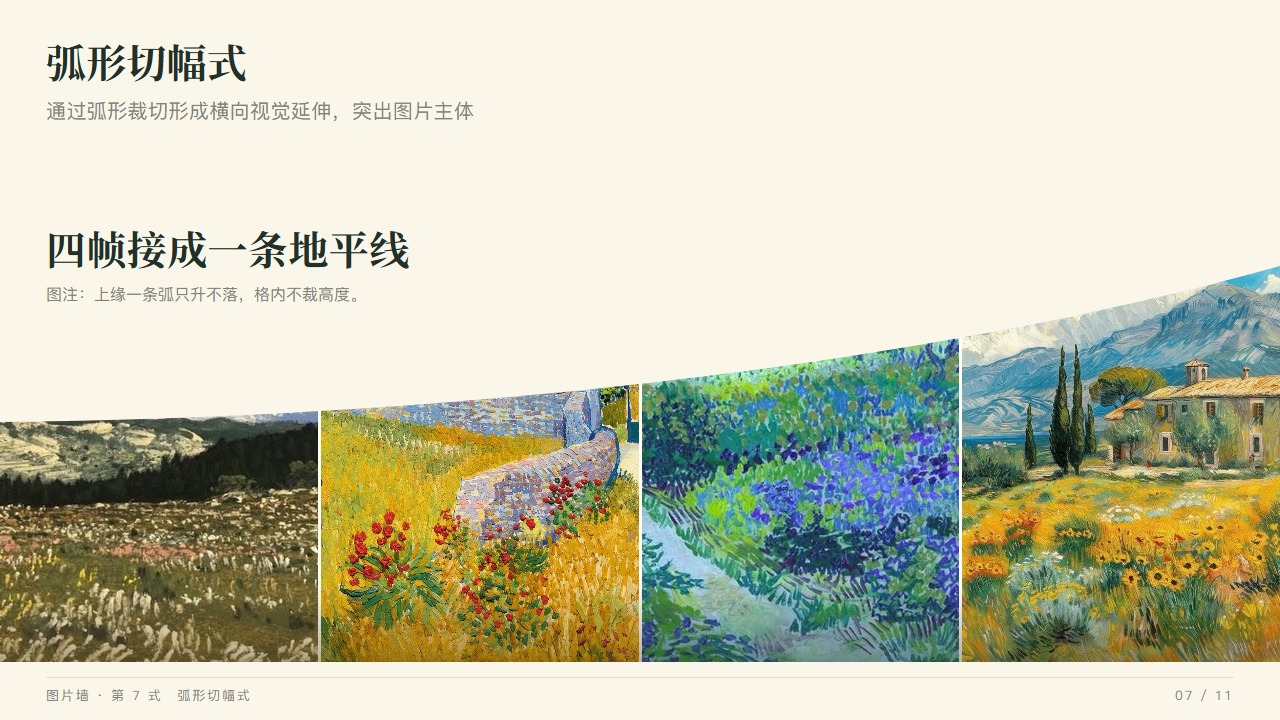
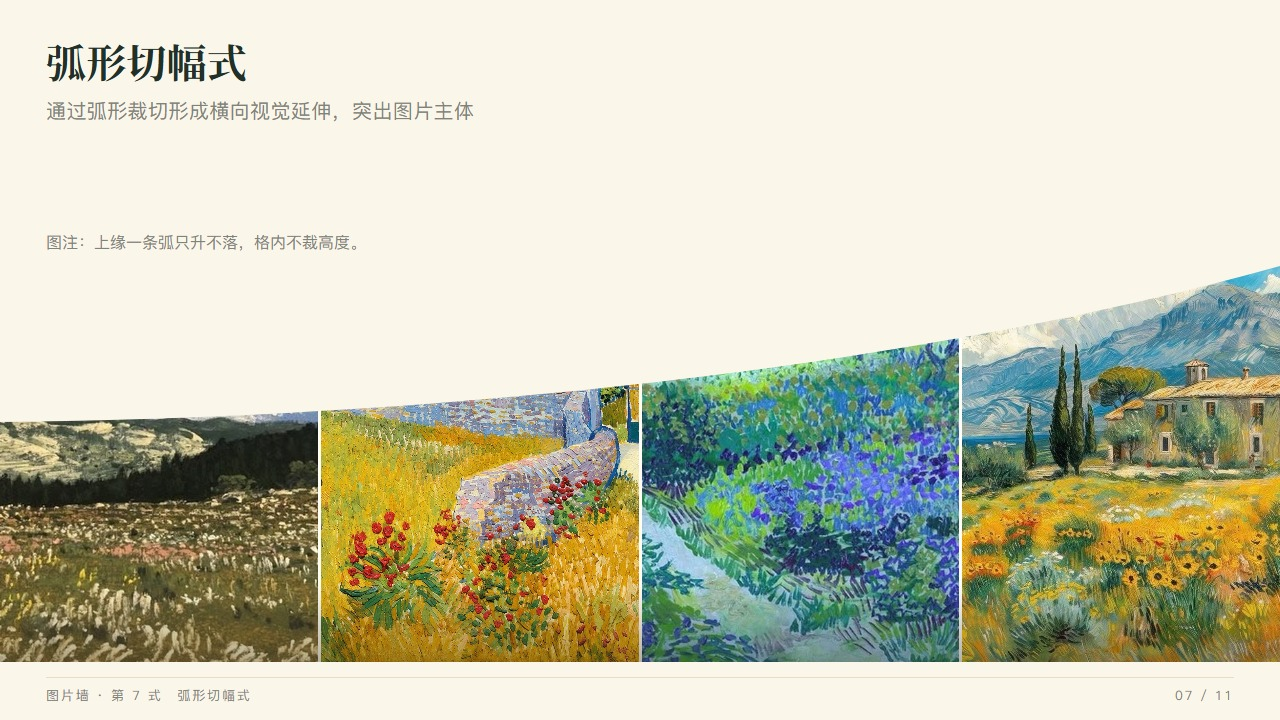
rice-paper-ppt：弧形切幅式（7）删除左上贴条「四帧接成一条地平线」，左上只留标题+定义+图注；wall-crest.jpg 重渲

Changed region(s): [[0.0312, 0.3056, 0.3438, 0.4278]]

diff --git a/rice-paper-ppt/examples/wall-crest.html b/rice-paper-ppt/examples/wall-crest.html
@@ -28,7 +28,6 @@
             <img src="img/vg5.jpg" alt="">
           </div>
           <div class="crest-head">
-            <div class="wt">四帧接成一条地平线</div>
             <div class="figcap">图注：上缘一条弧只升不落，格内不裁高度。</div>
           </div>
         </div>

diff --git a/rice-paper-ppt/references/components.md b/rice-paper-ppt/references/components.md
@@ -272,7 +272,6 @@
 
 <!-- 7 弧形切幅式：只弯上缘、下缘齐平贴底；文字块 .crest-head 挂墙外，进墙就被 clip-path 裁掉 -->
 <div class="crest-wrap">
-  <div class="crest-head"><div class="wt">四帧接成一条地平线</div></div>
   <div class="wall w-crest">
     <img src="assets/g1.jpg" alt=""><img src="assets/g2.jpg" alt="">
     <img src="assets/g3.jpg" alt=""><img src="assets/g4.jpg" alt="">
